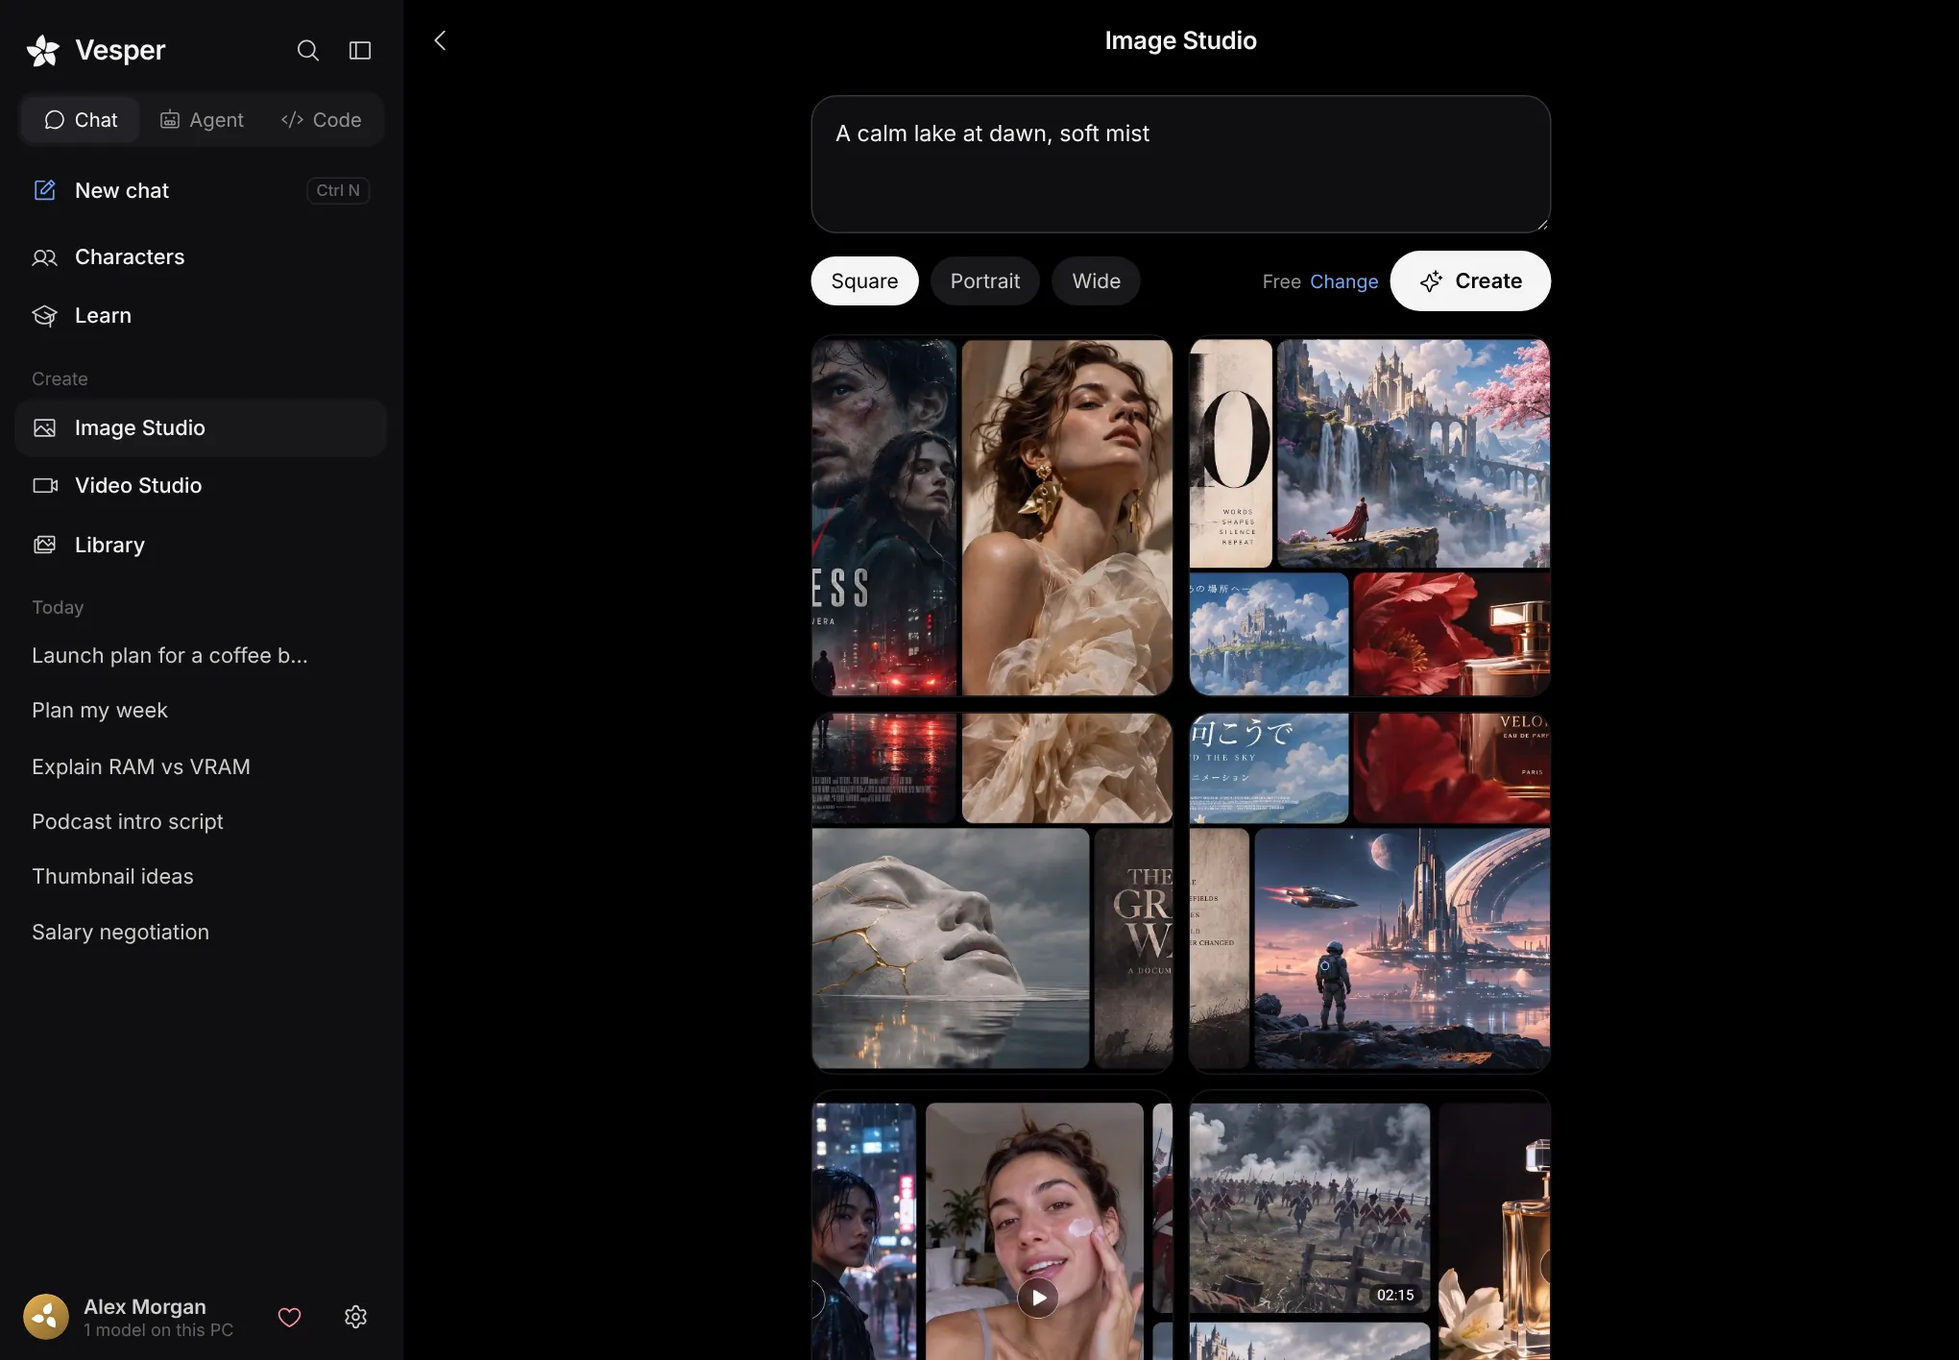
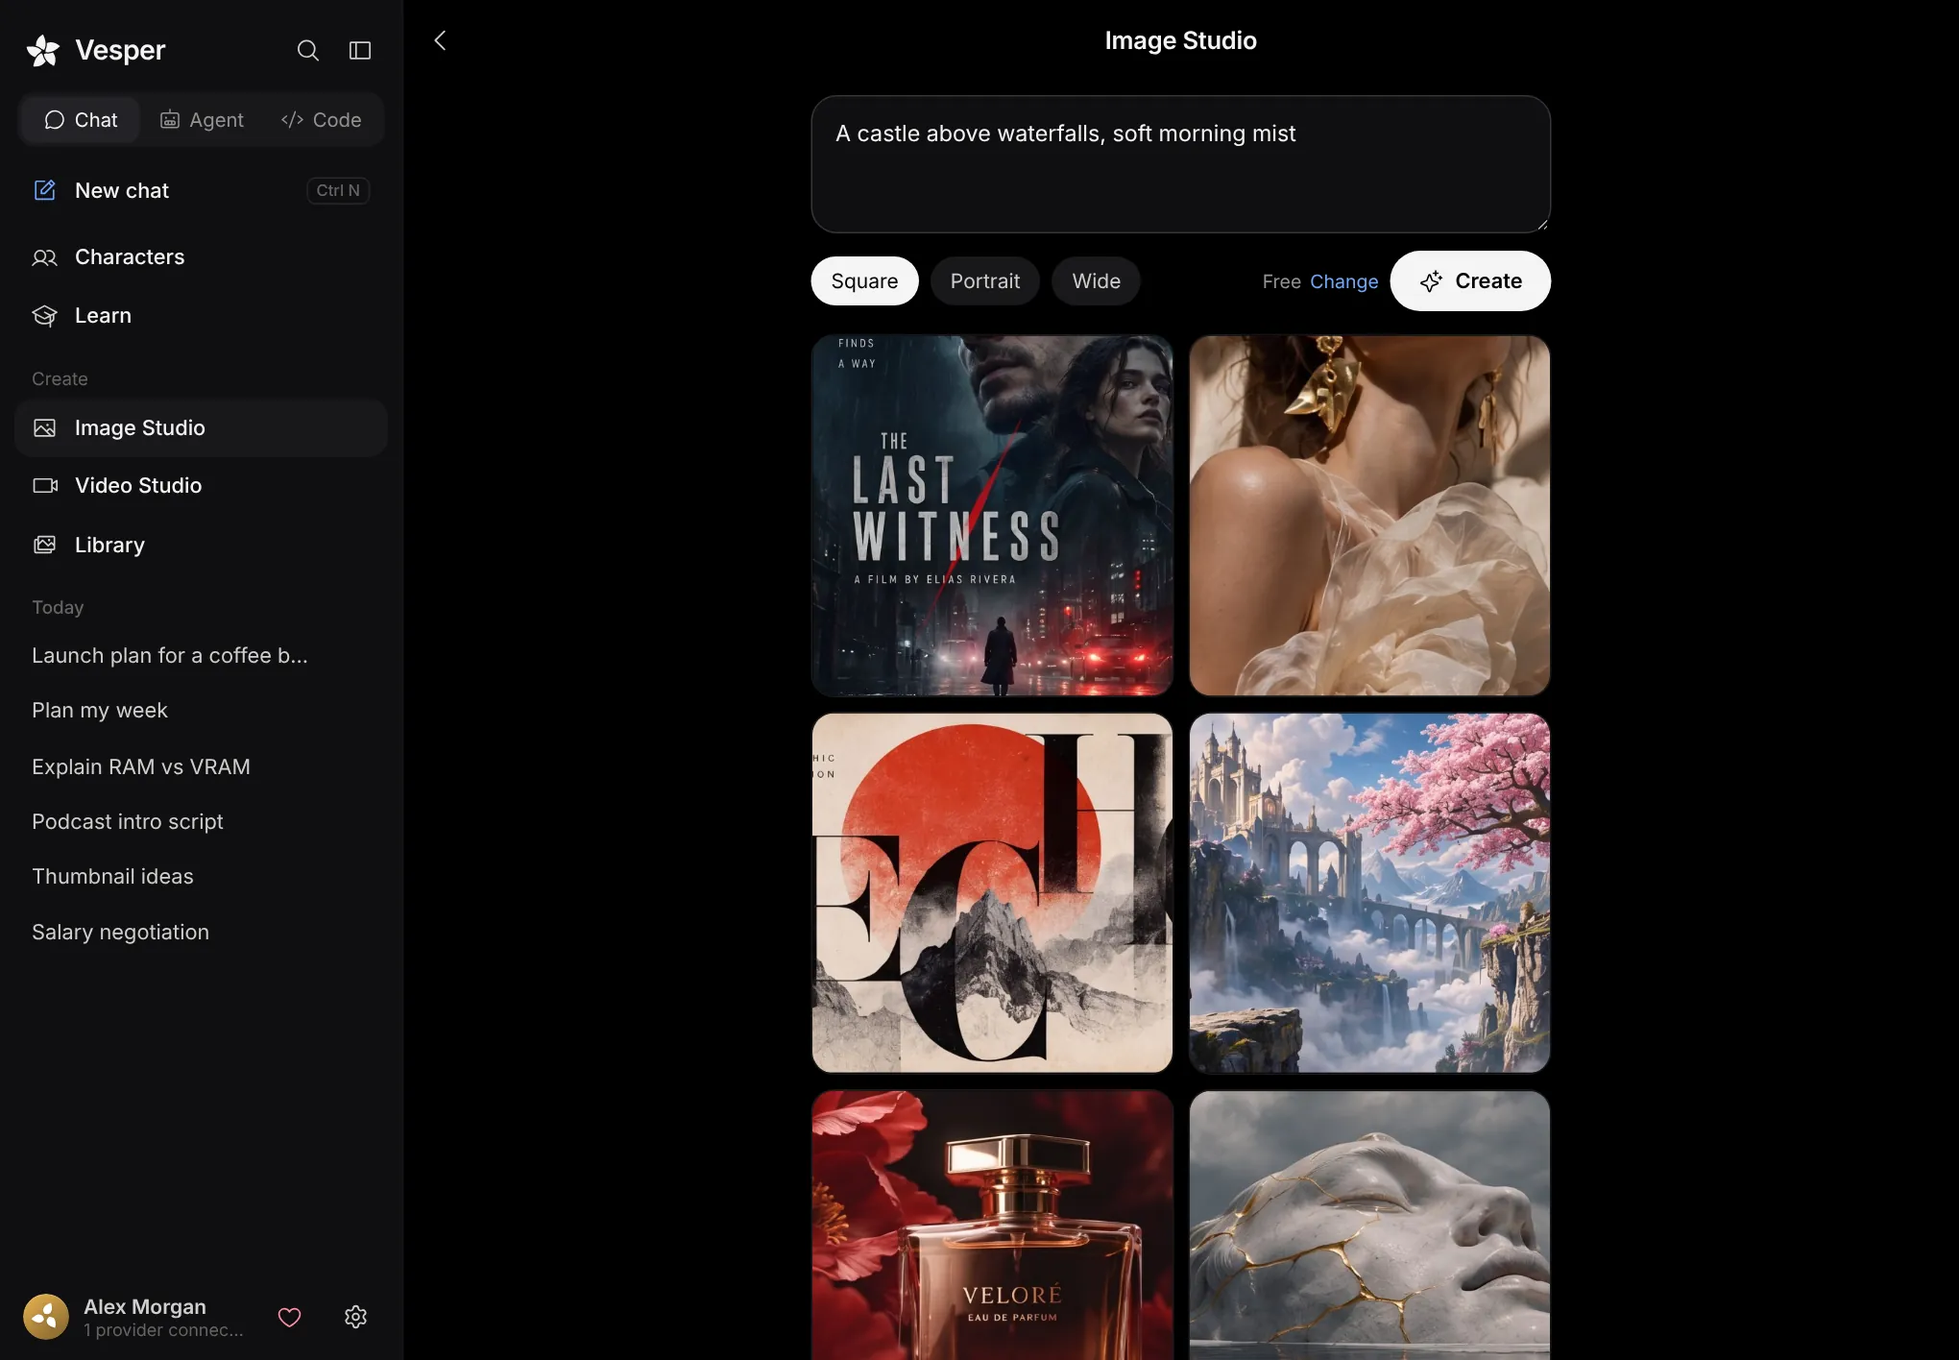
Node Folds site: iPad with Image Studio and a phone with Video Studio that slides up, no status tags, final look
Claude-Session: https://claude.ai/code/session_01Pqes7qMJVCgUAH6HtcUGzX

Changed region(s): [[0.4015, 0.2486, 0.8029, 1.0], [0.4632, 0.0932, 0.6485, 0.1243], [0.0618, 0.9633, 0.1235, 0.9944]]

diff --git a/nodefolds/index.html b/nodefolds/index.html
@@ -41,7 +41,7 @@ img{display:block;max-width:100%}
 /* scenes */
 .scene{position:relative}
 .pin{position:sticky;top:0;height:100svh;overflow:hidden}
-#device,#wall,#mark,#h1{will-change:transform}
+#device,#ipad,#phone,#mark,#h1{will-change:transform}
 /* hero */
 .hero{height:150vh}
 .hero .pin{display:flex;flex-direction:column;align-items:center;justify-content:center;text-align:center;padding:0 20px}
@@ -132,23 +132,28 @@ h2{margin:0;font-size:clamp(38px,5.8vw,76px);font-weight:600;letter-spacing:-.04
 .card.wide img{width:100%;height:auto;border-radius:16px 16px 0 0;box-shadow:0 0 0 1px var(--line)}
 @media (max-width:600px){.card.wide{grid-column:auto;grid-template-columns:1fr}}
 .rv{opacity:0;transform:translate3d(0,28px,0) scale(.99);transition:opacity .72s var(--ease) var(--reveal-delay,0ms),transform .84s var(--ease) var(--reveal-delay,0ms)}.rv.in{opacity:1;transform:translate3d(0,0,0) scale(1)}
-/* studio theater */
-.theater{height:320vh}
-.theater .pin{display:grid;place-items:center}
-.screenwall{position:absolute;inset:0;overflow:hidden;background:#050507}
-.screenwall img{position:absolute;inset:0;width:100%;height:100%;object-fit:cover}
-.shade{position:absolute;inset:0;background:linear-gradient(180deg,rgba(0,0,0,.55),transparent 30%,transparent 50%,rgba(0,0,0,.9))}
-.ttl{position:absolute;left:0;right:0;bottom:9vh;text-align:center;padding:0 20px}
-.ttl .tt{position:absolute;left:0;right:0;bottom:0}
+/* studio: iPad with Image Studio, phone with Video Studio sliding up */
+.theater{height:420vh}
+.theater .pin{display:grid;grid-template-columns:4fr 7fr;align-items:center;gap:64px;width:min(1360px,100% - 64px);margin:0 auto}
+.dtexts{position:relative;height:330px}.dtx{position:absolute;inset:0}
+.dtx h3{margin:18px 0 0;font-size:clamp(38px,4.4vw,62px);font-weight:600;letter-spacing:-.045em;line-height:1.04}
+.dtx p{margin:18px 0 0;font-size:clamp(17px,1.7vw,20px);color:var(--muted);line-height:1.5;max-width:460px}
+.dstage{position:relative;width:100%;display:grid;place-items:center;perspective:2200px}
+.dstage .device{will-change:transform}
+.device.phone{position:absolute;right:-1%;bottom:-7%;width:30%;max-height:none;aspect-ratio:412/892;border-radius:clamp(22px,3.2vw,42px);padding:clamp(6px,.8vw,10px);z-index:3;box-shadow:0 60px 120px rgba(0,0,0,.85),0 0 0 1px rgba(255,255,255,.12),inset 0 0 0 1px rgba(255,255,255,.05)}
+.device.phone::before{display:none}
+.device.phone .screen{border-radius:clamp(15px,2.4vw,33px)}
+.device.phone .screen img{object-position:top center}
+@media (max-width:860px){
+  .theater .pin{grid-template-columns:1fr;grid-template-rows:auto auto;align-content:center;gap:18px;padding:92px 0 24px}
+  .dstage{order:-1;perspective:none}
+  .dtexts{height:210px}.dtx h3{font-size:34px;margin-top:12px}.dtx p{font-size:16px;margin-top:10px}
+  .device.phone{width:34%;right:2%;bottom:-9%}
+}
 .chip{display:inline-flex;align-items:center;gap:7px;font-size:12px;font-weight:600;letter-spacing:.12em;text-transform:uppercase;color:var(--accent);background:rgba(110,168,255,.16);padding:6px 12px;border-radius:999px;margin-bottom:14px}
-.ttl h3{margin:0;font-size:clamp(34px,5.4vw,72px);font-weight:600;letter-spacing:-.045em}
-.ttl p{margin:10px 0 0;color:var(--soft);font-size:clamp(16px,1.6vw,19px)}
-.st-head{position:absolute;top:13vh;left:0;right:0;text-align:center}
 .nextw{padding:12vh 0 8vh}
 .ngrid{display:grid;grid-template-columns:repeat(6,1fr);gap:16px;margin-top:48px}
 .ngrid .card{grid-column:span 2;min-height:230px}.ngrid .card.big{grid-column:span 3}
-.cst{position:absolute;top:24px;right:24px;font-size:11px;font-weight:600;letter-spacing:.06em;text-transform:uppercase;padding:5px 10px;border-radius:999px;color:var(--muted);background:rgba(255,255,255,.06)}
-.cst.dev{color:var(--accent);background:rgba(110,168,255,.14)}
 @media (max-width:860px){.ngrid{grid-template-columns:1fr}.ngrid .card,.ngrid .card.big{grid-column:auto}}
 .plus{padding:44px;border-radius:32px;display:flex;align-items:center;justify-content:space-between;gap:24px;flex-wrap:wrap;background:linear-gradient(#0d0d12,#0d0d12) padding-box,linear-gradient(120deg,#6ea8ff,#f0c26b 55%,#6ea8ff) border-box;border:1.5px solid transparent;box-shadow:0 30px 100px rgba(70,90,255,.2)}
 .plus h3{margin:0;font-size:clamp(28px,3.4vw,40px);font-weight:600;letter-spacing:-.035em}
@@ -259,22 +264,29 @@ footer a:hover{color:#fff}
 </div></section>
 
 <section class="scene theater" id="studio"><div class="pin">
-  <div class="screenwall m" id="wall"><img class="m" src="img/image-studio-4k.jpg" alt="Image Studio examples"><img class="m" src="img/video-studio-4k.jpg" alt="Video Studio examples" style="opacity:0"><div class="shade"></div></div>
-  <div class="st-head m" id="sthead"><div class="eyebrow">Create</div><h2>The studio<br>is open.</h2></div>
-  <div class="ttl"><div class="tt m"><span class="chip">Image Studio</span><h3>Any image. One sentence.</h3><p>Posters, products, portraits and whole worlds. Free, with no key.</p></div>
-    <div class="tt m" style="opacity:0"><span class="chip">Video Studio</span><h3>Direct videos with words.</h3><p>Ads, reels and stories with real camera moves. Saved in your Library.</p></div></div>
+  <div>
+    <div class="eyebrow">Create</div>
+    <div class="dtexts">
+      <div class="dtx m"><span class="chip">Image Studio</span><h3>Any image.<br>One sentence.</h3><p>Posters, products, portraits and whole worlds. Free, with no key.</p></div>
+      <div class="dtx m" style="opacity:0"><span class="chip">Video Studio</span><h3>Direct videos<br>with words.</h3><p>Ads, reels and stories with real camera moves. Saved in your Library.</p></div>
+    </div>
+  </div>
+  <div class="dstage">
+    <div class="device m" id="ipad"><div class="screen"><div class="shots"><img src="img/app-studio.webp" alt="Vesper Image Studio" width="2040" height="1416" loading="lazy"></div></div></div>
+    <div class="device phone m" id="phone"><div class="screen"><div class="shots"><img src="img/phone-video.webp" alt="Vesper Video Studio on a phone" width="824" height="1784" loading="lazy"></div></div></div>
+  </div>
 </div></section>
 
 <section class="nextw" id="next"><div class="wrap">
-  <div class="eyebrow rv">What is next</div>
+  <div class="eyebrow rv">Roadmap</div>
   <h2 class="rv">Chat is just<br>the start.</h2>
   <p class="sub rv">Vesper is growing into a full workspace for Windows. Here is what we are building.</p>
   <div class="ngrid">
-    <div class="card rv big"><span class="cst dev">In development</span><div class="ic"><svg width="22" height="22" viewBox="0 0 24 24" fill="none" stroke="currentColor" stroke-width="1.8" stroke-linecap="round" stroke-linejoin="round"><path d="m8 8-5 4 5 4M16 8l5 4-5 4M14 5l-4 14"/></svg></div><h3>Code</h3><p>Open a folder and build with Vesper. A built in editor, with every change shown before it is saved.</p></div>
-    <div class="card rv big"><span class="cst dev">In development</span><div class="ic"><svg width="22" height="22" viewBox="0 0 24 24" fill="none" stroke="currentColor" stroke-width="1.8" stroke-linecap="round" stroke-linejoin="round"><rect x="4" y="8" width="16" height="12" rx="3"/><path d="M12 8V4M9 13h.01M15 13h.01"/></svg></div><h3>Agent</h3><p>Give Vesper a goal. It plans the steps, uses tools and asks before it acts.</p></div>
-    <div class="card rv"><span class="cst">Planned</span><div class="ic"><svg width="22" height="22" viewBox="0 0 24 24" fill="none" stroke="currentColor" stroke-width="1.8" stroke-linecap="round" stroke-linejoin="round"><circle cx="12" cy="12" r="10"/><path d="M2 12h20M12 2a15 15 0 0 1 0 20M12 2a15 15 0 0 0 0 20"/></svg></div><h3>Built in browser</h3><p>Browse and research next to your chat, in the same window.</p></div>
-    <div class="card rv"><span class="cst">Planned</span><div class="ic"><svg width="22" height="22" viewBox="0 0 24 24" fill="none" stroke="currentColor" stroke-width="1.8" stroke-linecap="round" stroke-linejoin="round"><rect x="3" y="11" width="18" height="11" rx="2"/><path d="M7 11V7a5 5 0 0 1 10 0v4"/></svg></div><h3>Encrypted chat folders</h3><p>Each chat keeps its files in an encrypted folder on your PC, deleted with the chat.</p></div>
-    <div class="card rv"><span class="cst">Planned</span><div class="ic"><svg width="22" height="22" viewBox="0 0 24 24" fill="none" stroke="currentColor" stroke-width="1.8" stroke-linecap="round" stroke-linejoin="round"><path d="M10 13a5 5 0 0 0 7 0l3-3a5 5 0 0 0-7-7l-1 1M14 11a5 5 0 0 0-7 0l-3 3a5 5 0 0 0 7 7l1-1"/></svg></div><h3>Shared memory</h3><p>Switch chats and keep the same memory, when you turn it on.</p></div>
+    <div class="card rv big"><div class="ic"><svg width="22" height="22" viewBox="0 0 24 24" fill="none" stroke="currentColor" stroke-width="1.8" stroke-linecap="round" stroke-linejoin="round"><path d="m8 8-5 4 5 4M16 8l5 4-5 4M14 5l-4 14"/></svg></div><h3>Code</h3><p>Open a folder and build with Vesper. A built in editor, with every change shown before it is saved.</p></div>
+    <div class="card rv big"><div class="ic"><svg width="22" height="22" viewBox="0 0 24 24" fill="none" stroke="currentColor" stroke-width="1.8" stroke-linecap="round" stroke-linejoin="round"><rect x="4" y="8" width="16" height="12" rx="3"/><path d="M12 8V4M9 13h.01M15 13h.01"/></svg></div><h3>Agent</h3><p>Give Vesper a goal. It plans the steps, uses tools and asks before it acts.</p></div>
+    <div class="card rv"><div class="ic"><svg width="22" height="22" viewBox="0 0 24 24" fill="none" stroke="currentColor" stroke-width="1.8" stroke-linecap="round" stroke-linejoin="round"><circle cx="12" cy="12" r="10"/><path d="M2 12h20M12 2a15 15 0 0 1 0 20M12 2a15 15 0 0 0 0 20"/></svg></div><h3>Built in browser</h3><p>Browse and research next to your chat, in the same window.</p></div>
+    <div class="card rv"><div class="ic"><svg width="22" height="22" viewBox="0 0 24 24" fill="none" stroke="currentColor" stroke-width="1.8" stroke-linecap="round" stroke-linejoin="round"><rect x="3" y="11" width="18" height="11" rx="2"/><path d="M7 11V7a5 5 0 0 1 10 0v4"/></svg></div><h3>Encrypted chat folders</h3><p>Each chat keeps its files in an encrypted folder on your PC, deleted with the chat.</p></div>
+    <div class="card rv"><div class="ic"><svg width="22" height="22" viewBox="0 0 24 24" fill="none" stroke="currentColor" stroke-width="1.8" stroke-linecap="round" stroke-linejoin="round"><path d="M10 13a5 5 0 0 0 7 0l3-3a5 5 0 0 0-7-7l-1 1M14 11a5 5 0 0 0-7 0l-3 3a5 5 0 0 0 7 7l1-1"/></svg></div><h3>Shared memory</h3><p>Switch chats and keep the same memory, when you turn it on.</p></div>
   </div>
 </div></section>
 
@@ -302,7 +314,7 @@ footer a:hover{color:#fff}
     <p class="fine">Vesper keeps chats and provider keys on your device. When you use an AI provider, your request goes directly to that provider. Provider limits and fees may apply. <a data-link="privacy">Read our Privacy Policy</a> for full details.</p>
     <div class="dir">
       <div><h4>Products</h4><a href="#vesper">Vesper</a><a data-link="windows">Vesper for Windows</a><a href="#vesper">Characters</a><a data-link="web">Open Vesper</a></div>
-      <div><h4>Explore</h4><a href="#principles">Our principles</a><a href="#studio">Image Studio</a><a href="#studio">Video Studio</a><a href="#next">What is next</a></div>
+      <div><h4>Explore</h4><a href="#principles">Our principles</a><a href="#studio">Image Studio</a><a href="#studio">Video Studio</a><a href="#next">Roadmap</a></div>
       <div><h4>Resources</h4><a href="#download">Downloads</a><a data-link="github">GitHub repository</a><a data-link="web">Guides and resources</a></div>
       <div><h4>Support</h4><a href="support">Contact support</a><a href="support#report">Report a problem</a><a data-link="kofi">Support Vesper</a></div>
       <div><h4>Node Folds</h4><a href="#top">About us</a><a data-link="email">Business enquiries</a><a data-link="privacy">Privacy policy</a><a data-link="terms">Terms of use</a></div>
@@ -376,7 +388,7 @@ document.querySelectorAll("[data-link]").forEach(a => { const u = LINKS[a.datase
   // cards spotlight
   $$(".card").forEach(c => c.addEventListener("pointermove", e => { const r = c.getBoundingClientRect(); c.style.setProperty("--x", e.clientX - r.left + "px"); c.style.setProperty("--y", e.clientY - r.top + "px"); }));
   const hero = $(".hero"), story = $(".story"), mani = $(".mani"), theater = $(".theater");
-  const txs = $$(".tx"), shots = $$(".screen img"), ticks = $$(".ticks b"), walls = $$("#wall img"), tts = $$(".tt"), rvs = $$(".rv");
+  const txs = $$(".tx"), shots = $$(".screen img"), ticks = $$(".ticks b"), tts = $$(".dtx"), rvs = $$(".rv");
   // smoothed values glide toward their targets, like a camera move
   const S = {}, T = {}; const k = RM ? 1 : .16;
   const sm = (key, target) => { T[key] = target; if (S[key] === undefined) S[key] = target; return S[key]; };
@@ -429,16 +441,15 @@ document.querySelectorAll("[data-link]").forEach(a => { const u = LINKS[a.datase
     // principles: words light up as you read
     const mp = sm("mani", R[2].p), lit = mp * 1.15 * words.length;
     words.forEach((w, i) => w.style.opacity = .13 + .87 * clamp(lit - i));
-    // studio: the picture opens from a card to the full screen, then cuts to video
-    const th = R[3], tp = sm("theater", th.p), te = ease(clamp(tp / .45));
-    const inset = (1 - te) * Math.min(18, 30 * innerWidth / 1440 + 6), rad = (1 - te) * 36;
-    $("#wall").style.clipPath = "inset(" + (inset * 2.4) + "% " + inset + "% " + (inset * .6) + "% " + inset + "% round " + rad + "px)";
-    $("#sthead").style.opacity = 1 - clamp(tp * 6); $("#sthead").style.transform = "translateY(" + (-tp * 120) + "px)";
-    const cut = clamp((tp - .58) / .14);
-    walls[0].style.opacity = 1 - cut; walls[1].style.opacity = cut;
-    walls.forEach((img, i) => img.style.transform = "scale(" + (1.18 - te * .14 + (i ? (1 - cut) * .06 : 0)) + ")");
-    tts[0].style.opacity = clamp((tp - .18) / .12) * (1 - cut); tts[0].style.transform = "translateY(" + ((1 - clamp((tp - .18) / .12)) * 30) + "px)";
-    tts[1].style.opacity = cut; tts[1].style.transform = "translateY(" + ((1 - cut) * 30) + "px)";
+    // studio: the iPad rises with Image Studio, then the phone with Video Studio slides up over it
+    const th = R[3], tp = sm("theater", th.p), e1 = ease(clamp(tp / .3)), e2 = ease(clamp((tp - .45) / .3));
+    const ip = $("#ipad"), ph = $("#phone"), small = innerWidth <= 860;
+    ip.style.transform = small ? "translateY(" + ((1 - e1) * 8) + "vh) scale(" + (.94 + e1 * .06 - e2 * .03) + ")"
+      : "translateY(" + ((1 - e1) * 22) + "vh) rotateX(" + ((1 - e1) * 14) + "deg) rotateY(" + (-4 + e1 * 1.5 - e2 * 2) + "deg) translateX(" + (-e2 * 5) + "%) scale(" + (.9 + e1 * .1 - e2 * .05) + ")";
+    ip.style.opacity = .3 + e1 * .7 - e2 * .22;
+    ph.style.transform = "translateY(" + ((1 - e2) * 115) + "vh)";
+    tts[0].style.opacity = clamp(e1 * 1.6) * (1 - clamp((tp - .4) / .1)); tts[0].style.transform = "translateY(" + ((1 - e1) * 30 - clamp((tp - .4) / .1) * 20) + "px)";
+    tts[1].style.opacity = clamp((tp - .55) / .1); tts[1].style.transform = "translateY(" + ((1 - clamp((tp - .55) / .1)) * 30) + "px)";
     // the rest rises in gently
   }
   if ("IntersectionObserver" in window) {

diff --git a/CLAUDE.md b/CLAUDE.md
@@ -43,7 +43,7 @@ Vesper is a single file PWA chat app (`index.html`) served by GitHub Pages from 
 ## Node Folds site (nodefolds/)
 - Node Folds is the parent company. Its site lives in `nodefolds/` (plain HTML, CSS and JS, no libraries) and is live at https://nodefolds.com (and www, which redirects). The Cloudflare Worker `nodefolds` serves the files straight from `main` on GitHub (cached 5 minutes), so merging to `main` publishes it: no deploy step and no Netlify. `/privacy` serves `privacy.html`. `/terms` serves `terms.html`. Email: support@, privacy@ and hello@nodefolds.com forward through Cloudflare Email Routing to the owner's Gmail; use support@ for every Contact us link.
 - Never show Live Characters on the site; it appears only in the README art.
-- Site layout: no scroll progress bar. The story section shows the real app (current screenshots in `img/app-*.webp`, captured full screen from the latest version with no title bar and no Live Characters) inside a tablet with no status bar, with floating chips (`.fc`) that change with each slide. Image Studio and Video Studio are live, so never label them coming soon; unfinished work (Code, Agent, built in browser, encrypted chat folders, shared memory) lives in the What is next section and says In development or Planned. Vesper Plus does not appear on the site. Recapture the screenshots whenever the app's look changes.
+- Site layout: no scroll progress bar. The story section shows the real app (current screenshots in `img/app-*.webp`, captured full screen from the latest version with no title bar and no Live Characters) inside a tablet with no status bar, with floating chips (`.fc`) that change with each slide. The studio section shows an iPad with the real Image Studio and a phone with the real Video Studio that slides up over it (screens `img/app-studio.webp`, `img/phone-video.webp`, made from clean cells of the studio art). Image Studio and Video Studio are live, so never label them coming soon. The owner wants the site to look final: no status tags like In development anywhere; unfinished work (Code, Agent, built in browser, encrypted chat folders, shared memory) stays only in the Roadmap section, worded as plans, never as available. Vesper Plus does not appear on the site. Recapture the screenshots whenever the app's look changes.
 - The site showcases every Node Folds product: add products to `PRODUCTS` and outside links to `LINKS` in its script (an empty link hides it, except X, Reddit and GitHub which stay visible). The logo is `design/nodefolds/` (mark.svg, icon.svg, logo.png); the site icons are `img/nf-icon*`. Every outside logo (socials, Apple, Google Play, Windows, stores) is monochrome: black on white buttons, white on dark; only Node Folds, Vesper and the Google Play icon keep their color. Platform icons use the owner's brand files in `img/brand/` (Apple, Google Play, X, Reddit), never generic phone or download icons.
 
 ## Windows app (desktop/)
